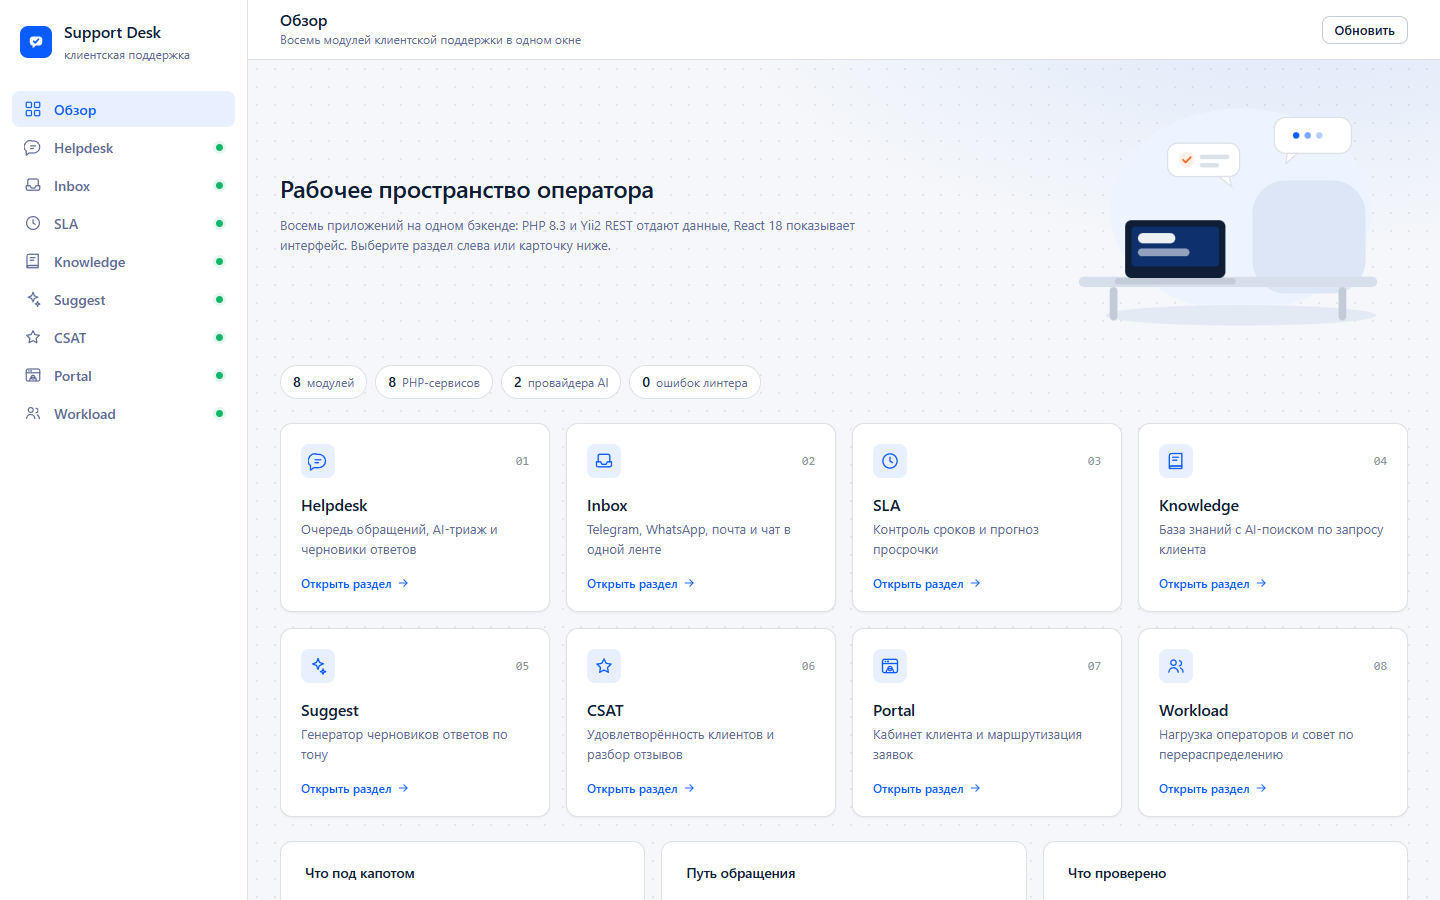
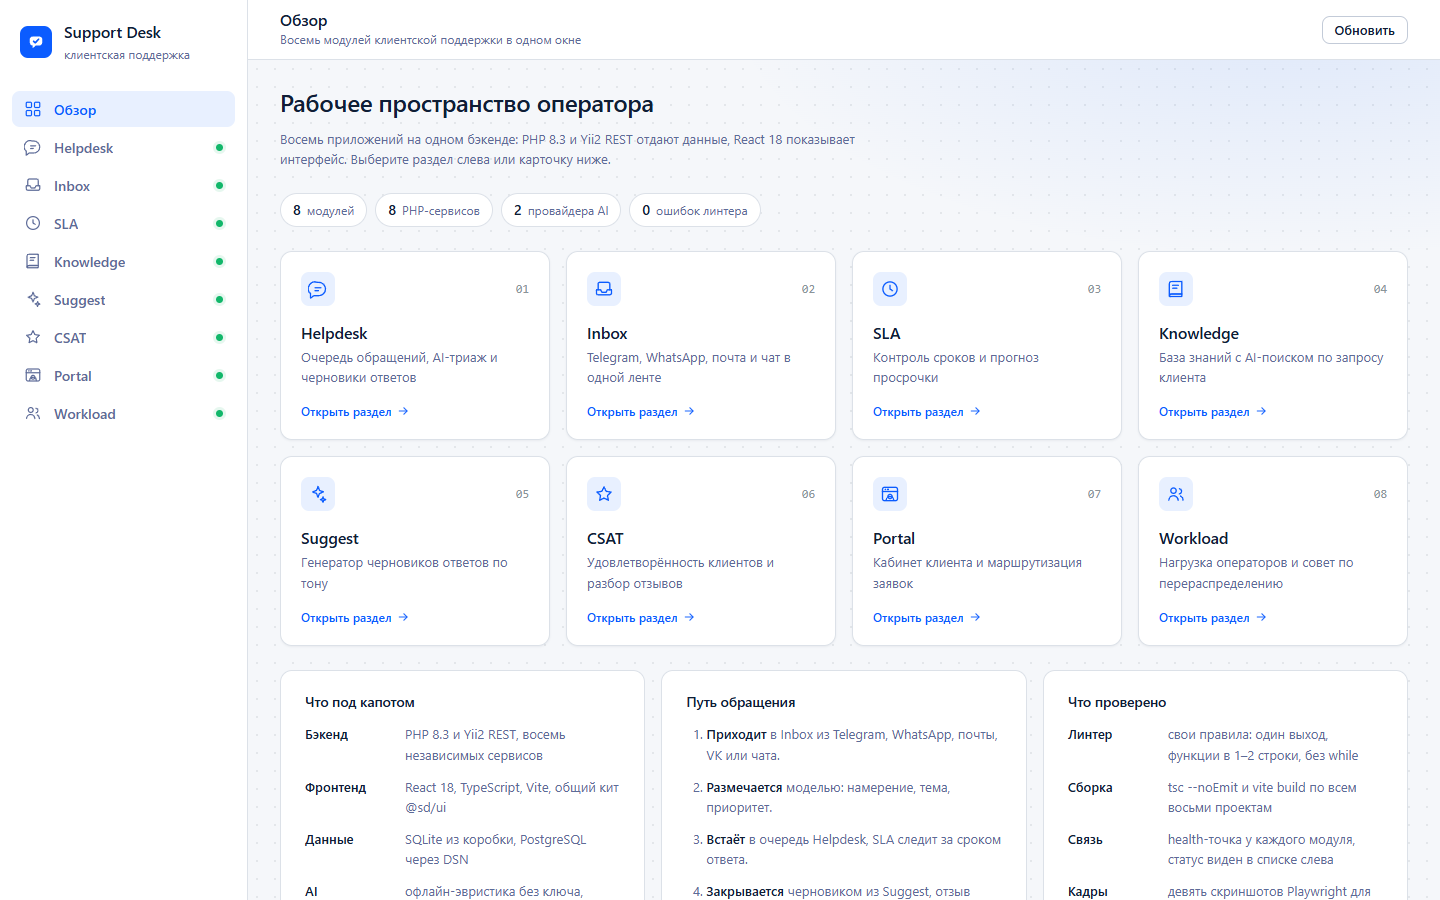
Убрать иллюстрацию из шапки обзора
Заглавная картинка со сценой рабочего места удалена целиком: остаются заголовок, описание и показатели. Кадр обзора переснят.

diff --git a/desktop/renderer/index.html b/desktop/renderer/index.html
@@ -69,7 +69,6 @@
                   Выберите раздел слева или карточку ниже.
                 </p>
               </div>
-              <img class="overview-head__hero" src="hero.svg" alt="Оператор поддержки за рабочим местом" width="340" height="243" />
             </div>
             <div class="overview-facts">
               <span class="fact"><b>8</b> модулей</span>

diff --git a/desktop/renderer/shell.css b/desktop/renderer/shell.css
@@ -179,18 +179,6 @@ body {
   max-width: 620px;
 }
 
-.overview-head__hero {
-  flex: 0 0 auto;
-  width: 360px;
-  height: auto;
-}
-
-@media (max-width: 1280px) {
-  .overview-head__hero {
-    width: 280px;
-  }
-}
-
 .overview-title {
   margin: 0;
   font-size: var(--sd-fs-24);
